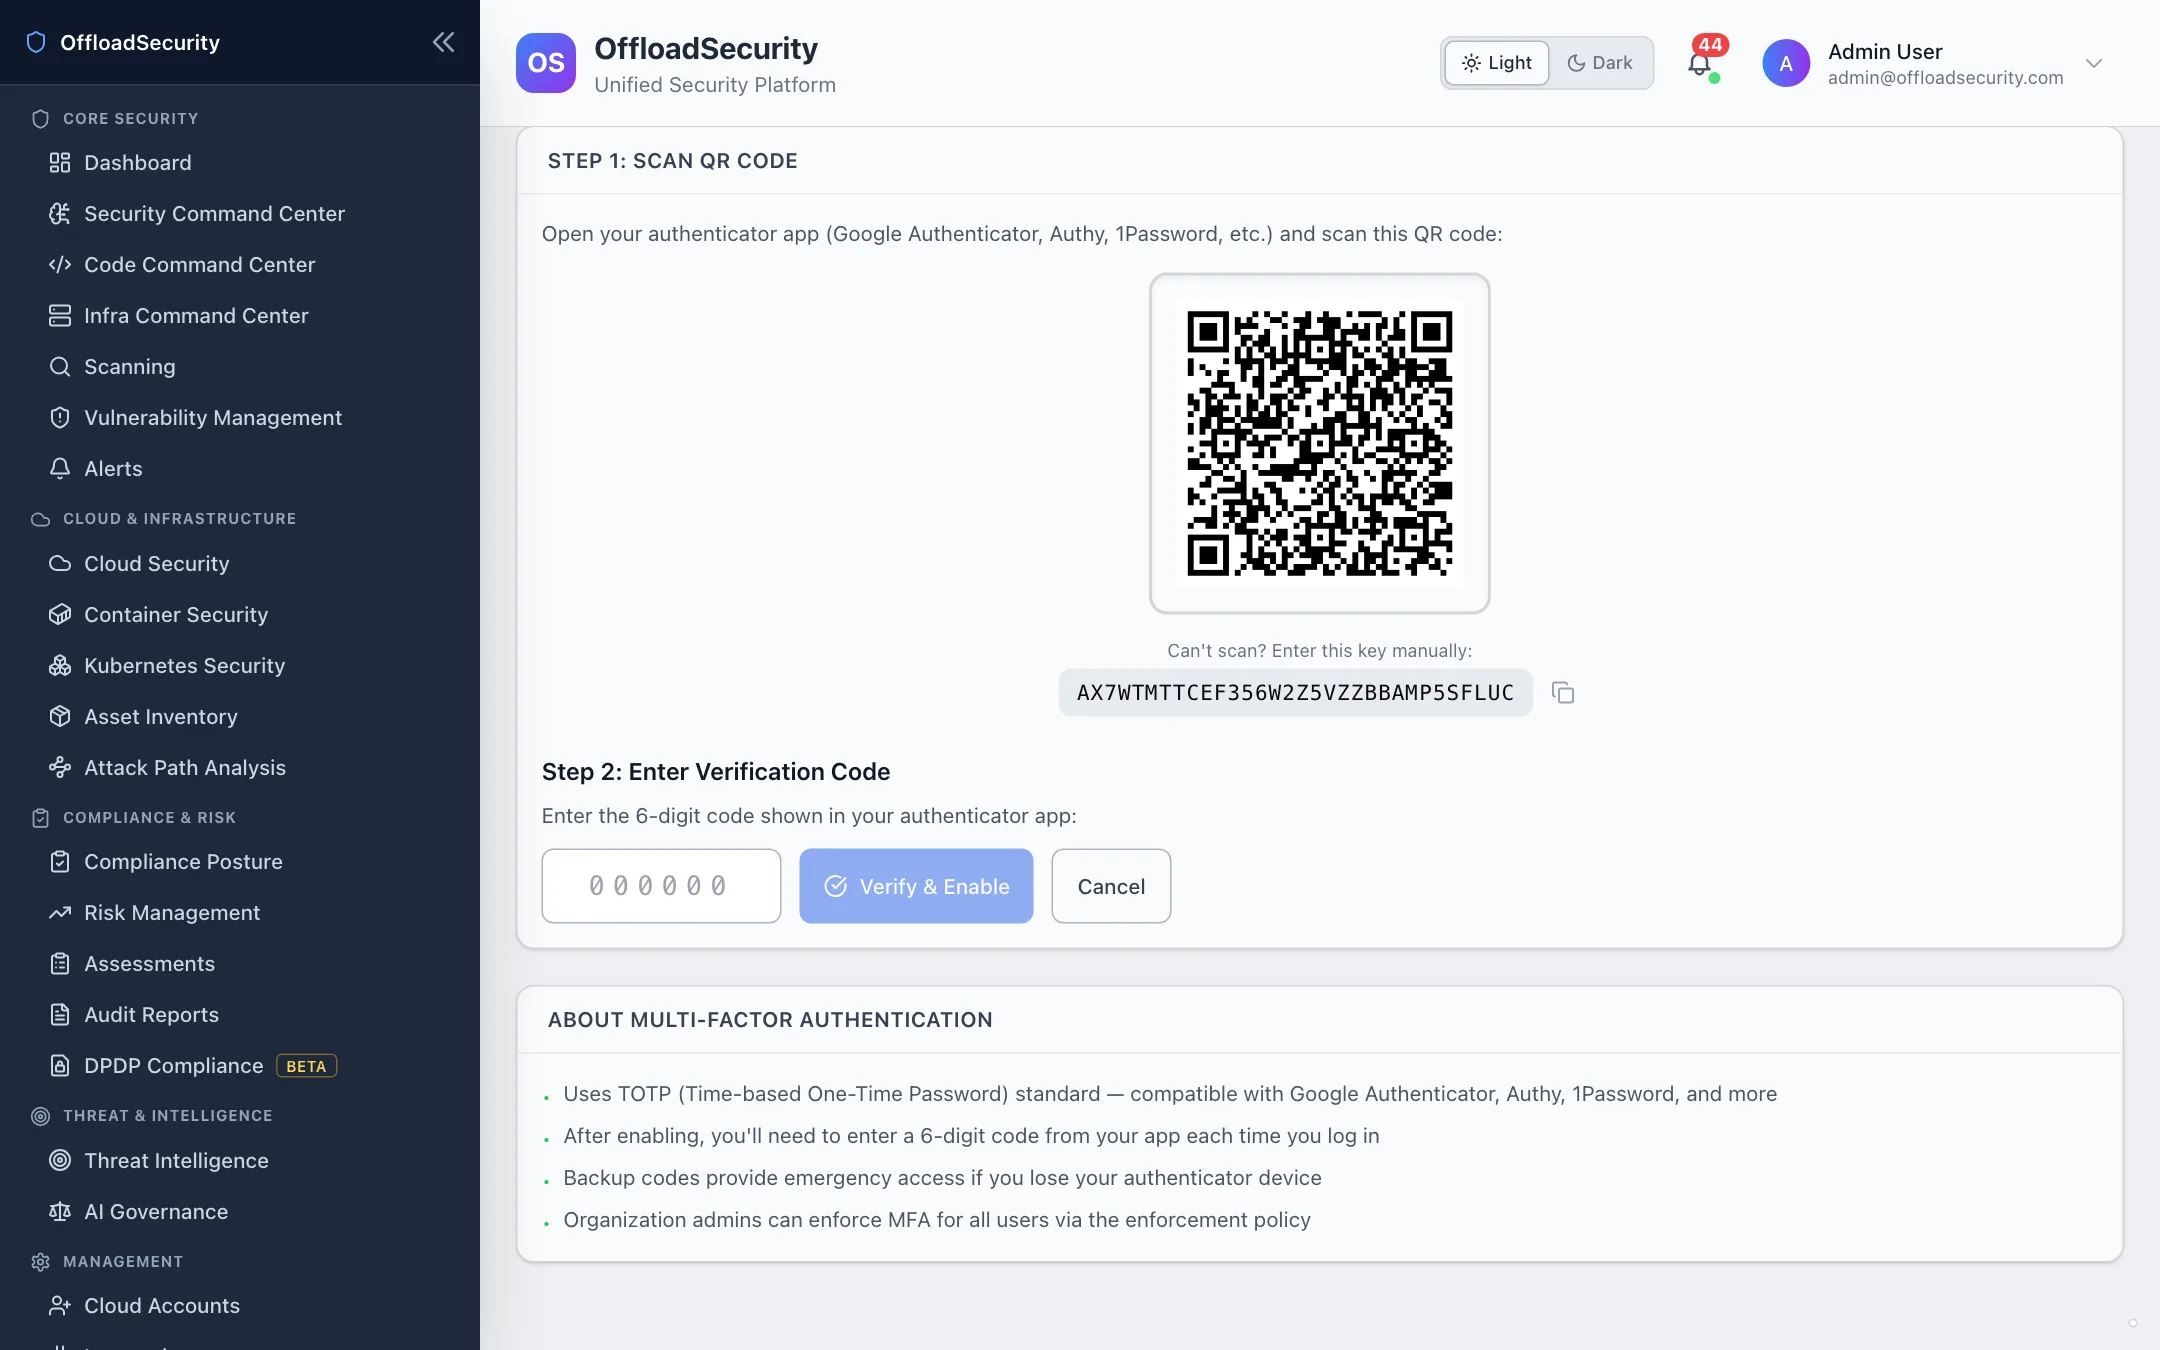
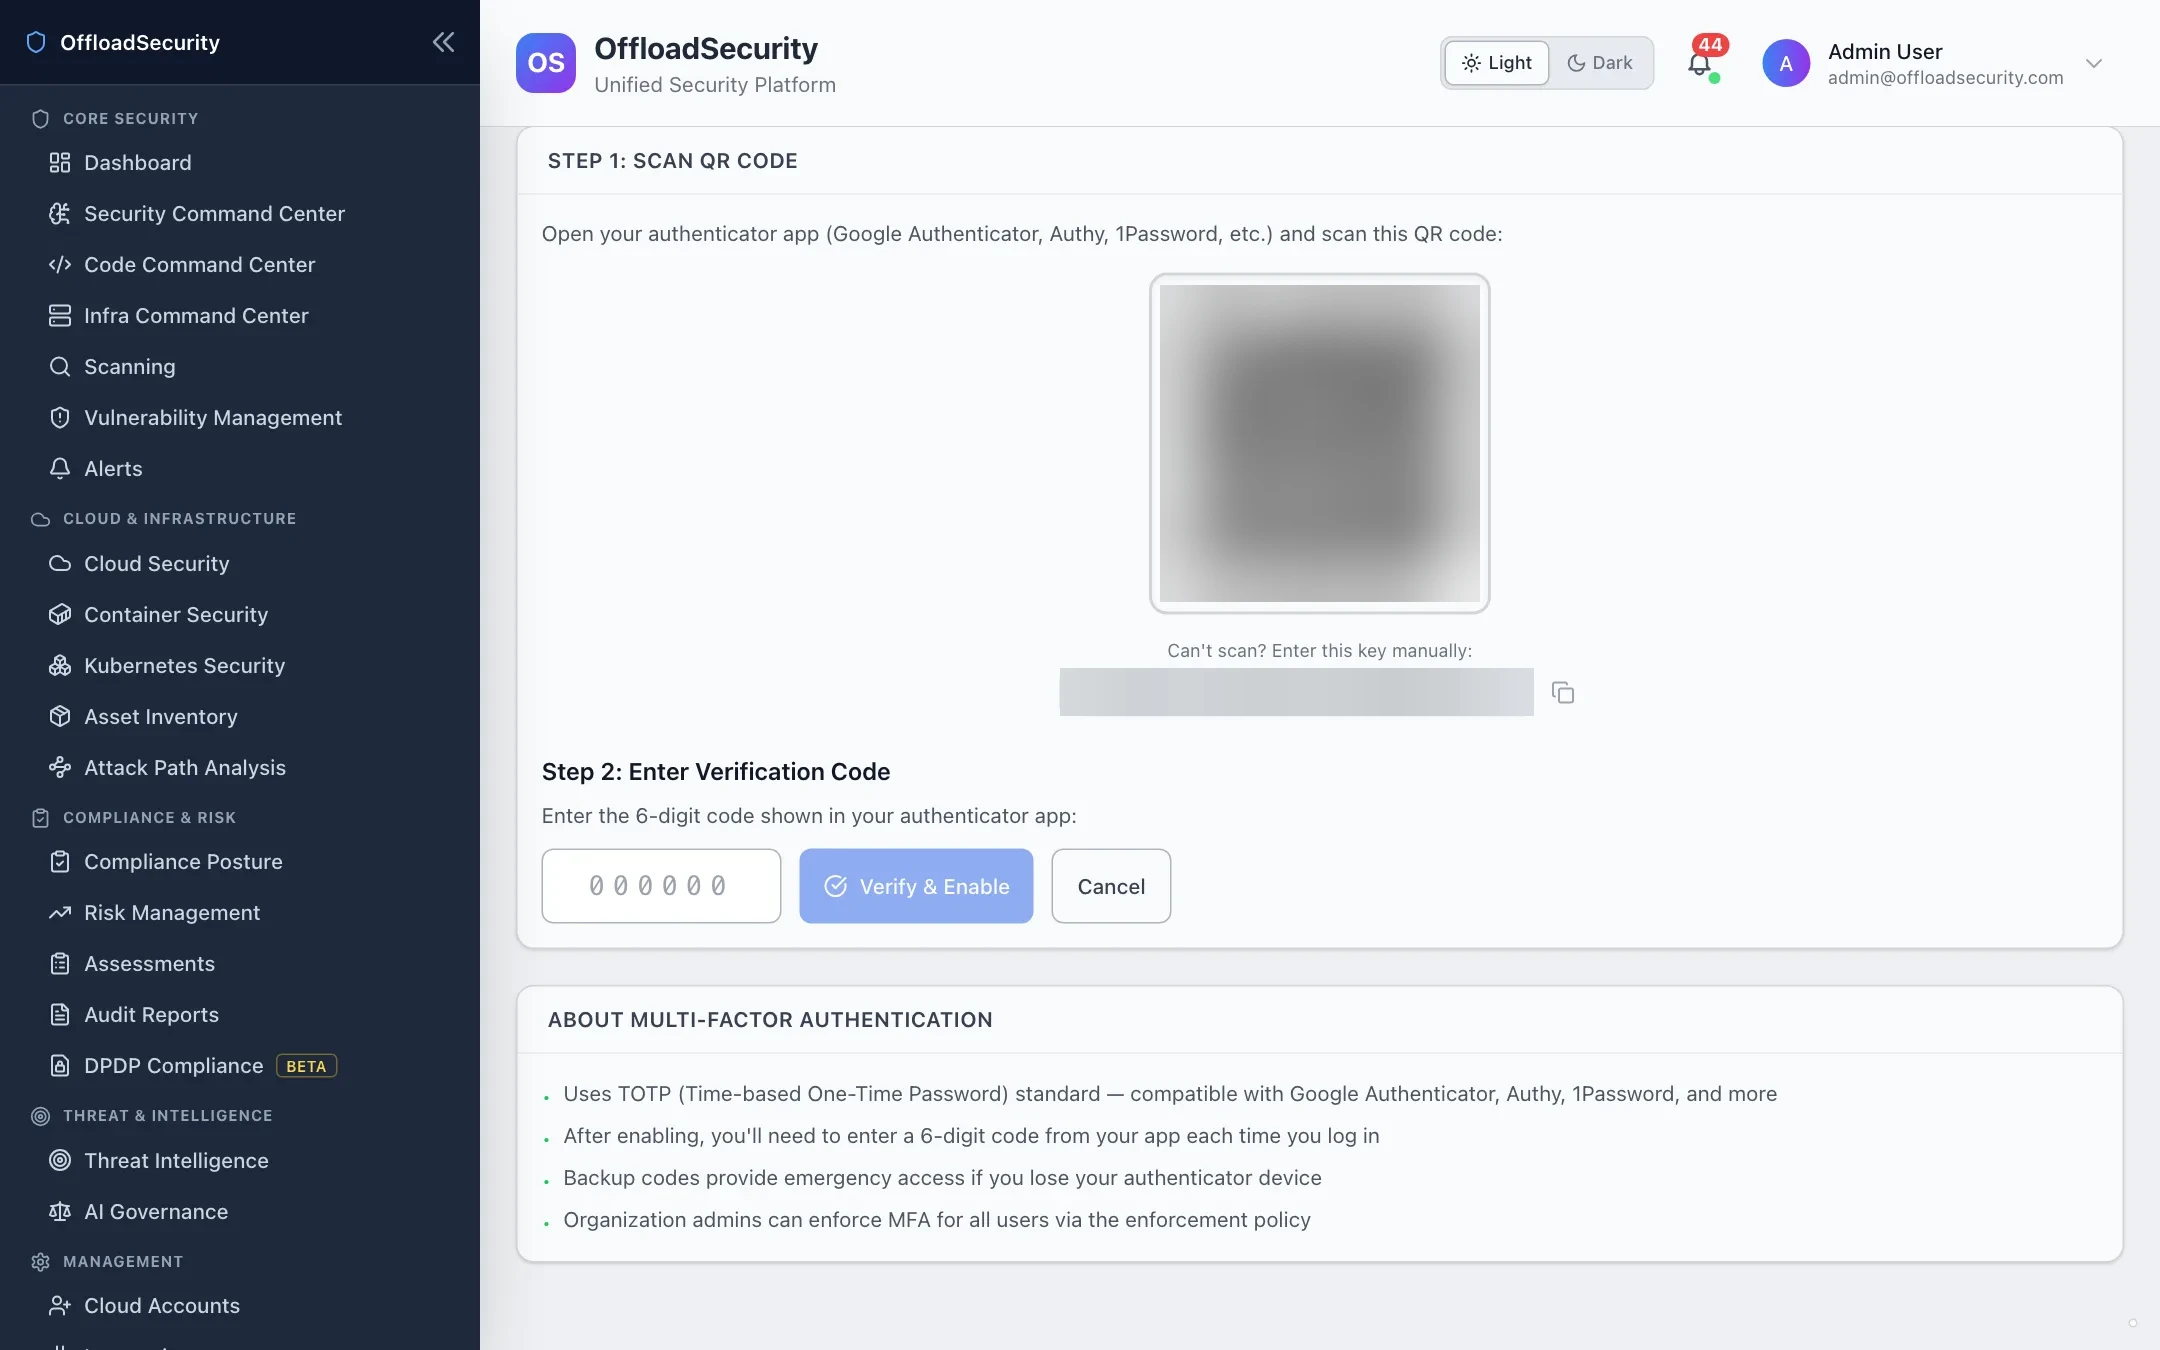
docs: redact MFA enrolment secret; drop private GitHub Action reference
- Blur the TOTP QR code and manual-entry key in the MFA setup screenshot
  (session-management page). The image exposed a usable enrolment secret.
- cli-and-cicd: the action was referenced from a private personal repo
  (404 for customers, and leaked the private repo name). Point the examples
  at a customer-hosted, tag-pinned copy and say how to obtain it; the REST
  flow in section 2 remains the no-action alternative.

Changed region(s): [[0.5273, 0.1867, 0.6824, 0.4667], [0.4963, 0.4978, 0.7134, 0.5289]]

diff --git a/docs/cli-and-cicd.md b/docs/cli-and-cicd.md
@@ -186,6 +186,10 @@ GATE=$(curl -s "$OFFLOAD_API_URL/api/cicd/scans/$SCAN_ID/results" \
 
 For GitHub repositories, the **Offload Security Scan** action wraps everything above: it triggers the scan, waits for completion, posts a results comment on the pull request, and fails the job based on your threshold.
 
+:::note[Getting the action]
+The action is not published on the GitHub Marketplace. Ask your Offload Security contact for the action package, add it to a repository in your own organization (the examples below use `your-org/offload-scan-action`), and pin workflows to a release tag or commit SHA rather than a branch. Until then, the REST calls in [section 2](#2-trigger-a-scan-from-any-ci-system-rest-api) do the same job from any CI system.
+:::
+
 ### Set up
 
 1. Create an API key with the **CI/CD Pipeline (Basic)** preset (see step 1).
@@ -210,7 +214,7 @@ jobs:
       contents: read
     steps:
       - name: Run Offload Security Scan
-        uses: niteshsaini/offload-cspm/github-action@main
+        uses: your-org/offload-scan-action@v1
         with:
           api_url: ${{ secrets.OFFLOAD_API_URL }}
           api_key: ${{ secrets.OFFLOAD_API_KEY }}
@@ -247,7 +251,7 @@ The action exposes results you can use in later steps, including `scan_id`, `sta
 ```yaml
       - name: Run Security Scan
         id: scan
-        uses: niteshsaini/offload-cspm/github-action@main
+        uses: your-org/offload-scan-action@v1
         with:
           api_url: ${{ secrets.OFFLOAD_API_URL }}
           api_key: ${{ secrets.OFFLOAD_API_KEY }}
